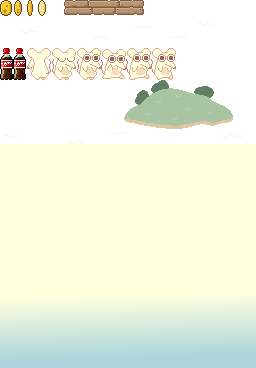
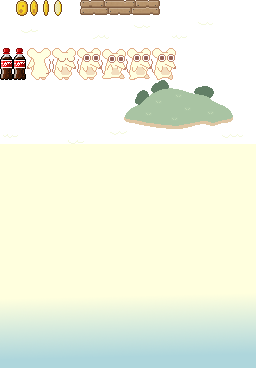
Added more particles

Changed region(s): [[0.0, 0.0, 0.375, 0.0598], [0.4062, 0.0, 0.625, 0.0598]]

diff --git a/src/Level.js b/src/Level.js
@@ -5,6 +5,8 @@ import { Emitter, upgradeConfig } from '@pixi/particle-emitter';
 import { intersect, random } from './utilities';
 
 import boostEmitterConfig from './emitters/boostEmitterConfig.json';
+import coinEmitterConfig from './emitters/coinEmitterConfig.json';
+import cokeEmitterConfig from './emitters/cokeEmitterConfig.json';
 
 const Tile = {
   void: 0,
@@ -46,6 +48,7 @@ export default class Level {
 
   // Particle emitters
   boostEmitter;
+  collectableEmitters = [];
 
   // Timers
   animationTimer = null;
@@ -218,12 +221,40 @@ export default class Level {
               collecting = true;
               this.setTile(x, y, Tile.void);
               this.increaseScore(10);
+              const emitter = new Emitter(
+                this.app.stage,
+                upgradeConfig(coinEmitterConfig, [Sprite.from('particle.png').texture])
+              );
+              emitter.updateSpawnPos(
+                tileRectangle.x - tileRectangle.width / 2,
+                tileRectangle.y + tileRectangle.height / 2
+              );
+              emitter.playOnceAndDestroy(() => {
+                this.collectableEmitters = this.collectableEmitters.filter(
+                  (collectableEmitter) => collectableEmitter != emitter
+                );
+              });
+              this.collectableEmitters.push(emitter);
             } else if (this.map[y][x].value === Tile.coke && intersectRect.height > 0) {
               // Collect coke
               collecting = true;
               this.setTile(x, y, Tile.void);
               this.increaseScore(50);
               this.increaseBoost(1);
+              const emitter = new Emitter(
+                this.app.stage,
+                upgradeConfig(cokeEmitterConfig, [Sprite.from('bubble.png').texture])
+              );
+              emitter.updateSpawnPos(
+                tileRectangle.x - tileRectangle.width / 2,
+                tileRectangle.y + tileRectangle.height / 2
+              );
+              emitter.playOnceAndDestroy(() => {
+                this.collectableEmitters = this.collectableEmitters.filter(
+                  (collectableEmitter) => collectableEmitter != emitter
+                );
+              });
+              this.collectableEmitters.push(emitter);
             } else if (
               this.map[y][x].value === Tile.platform &&
               this.player.lastPosition.y + this.player.height <= tileRectangle.y
@@ -491,8 +522,18 @@ export default class Level {
 
   updateEmitters() {
     // Update boost effect
-    this.boostEmitter.spawnPos.x = this.player.container.position.x + this.player.width / 2;
-    this.boostEmitter.spawnPos.y = this.player.container.position.y + this.player.height;
+    this.boostEmitter.updateSpawnPos(
+      this.player.container.position.x + this.player.width / 2,
+      this.player.container.position.y + this.player.height
+    );
+    // Update collecatble emitters
+    // TODO
+    this.collectableEmitters.forEach((collectableEmitter) => {
+      collectableEmitter.updateSpawnPos(
+        collectableEmitter.spawnPos.x - (this.player.position.x - this.player.lastPosition.x),
+        collectableEmitter.spawnPos.y
+      );
+    });
   }
 
   increaseScore(value) {
@@ -529,7 +570,7 @@ export default class Level {
     this.createNewTiles();
     this.player.move(dt);
     this.checkCollision();
-    this.updateEmitters();
+    this.updateEmitters(dt);
     this.updateBackground(dt);
     this.checkGameOver();
 
@@ -568,6 +609,8 @@ export default class Level {
     this.levelContainer.filters = null;
     this.container.removeChild(this.gameOver);
     this.boostEmitter.emit = false;
+    this.collectableEmitters.forEach((collectableEmitter) => collectableEmitter.destroy());
+    this.collectableEmitters = [];
 
     this.createMap();
     this.createTilemap();
